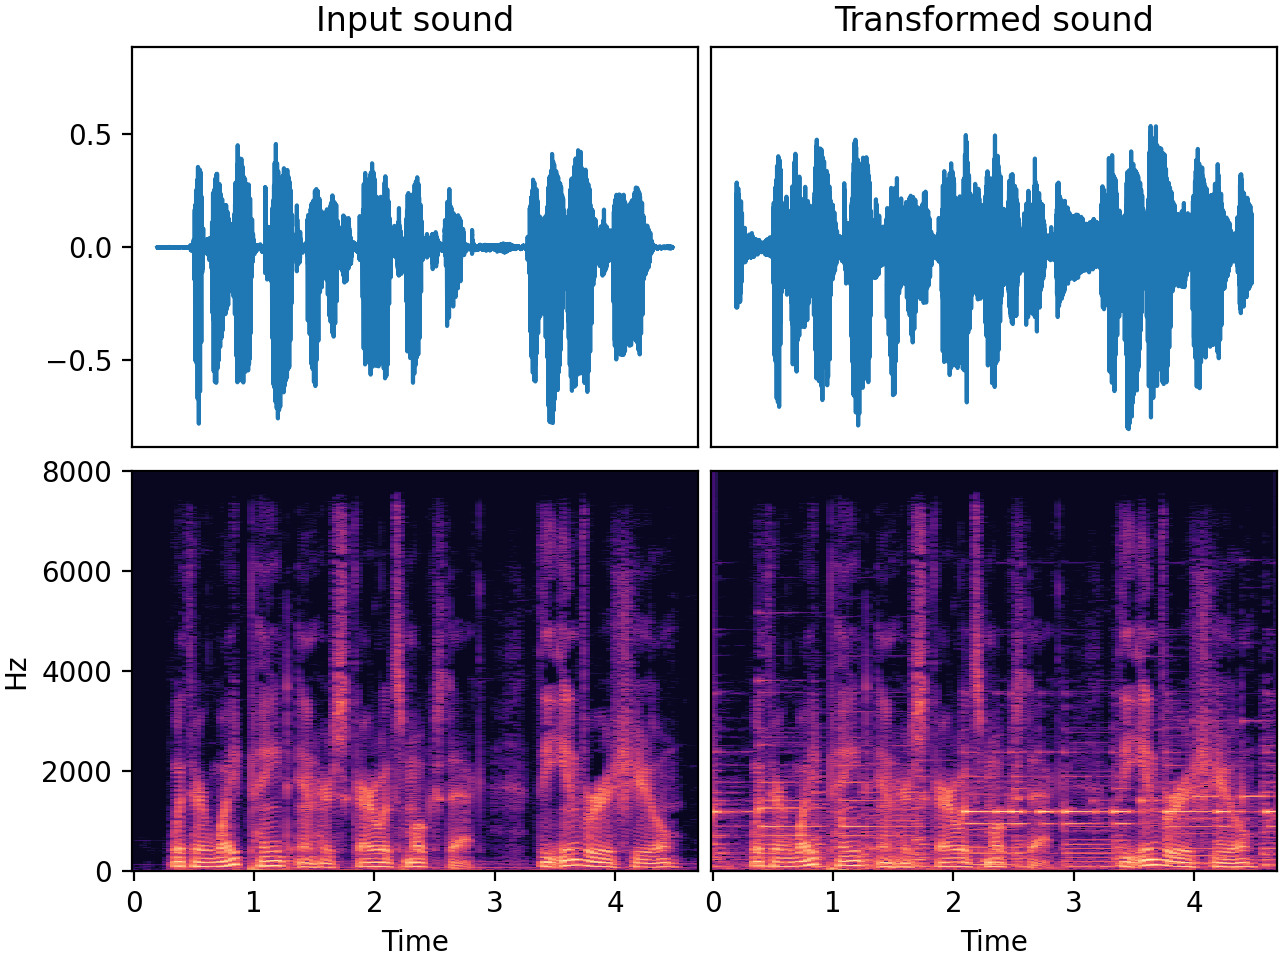
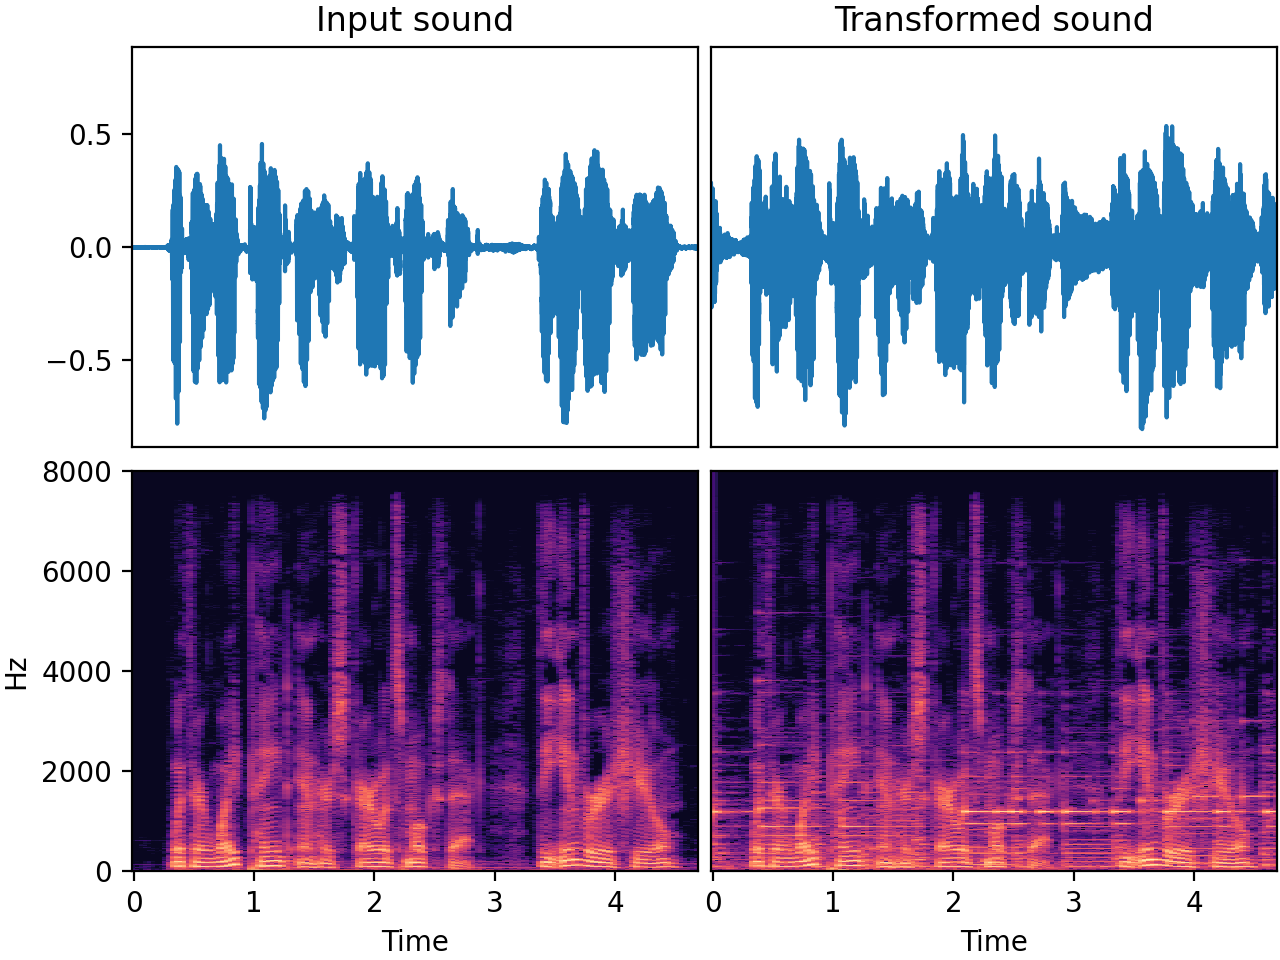
Align waveform with spectrogram

Changed region(s): [[0.4062, 0.125, 1.0, 0.4688], [0.125, 0.1562, 0.3125, 0.4375], [0.3125, 0.1875, 0.375, 0.3438]]

diff --git a/demo/generate_examples_for_doc.py b/demo/generate_examples_for_doc.py
@@ -27,12 +27,14 @@ def plot_waveforms_and_spectrograms(
     axs[0, 0].plot(sound)
     axs[0, 0].set_xticklabels([])
     axs[0, 0].set_xticks([])
+    axs[0, 0].set_xlim([0, sound.shape[-1]])
     axs[0, 0].set_ylim([-ylim, ylim])
     axs[0, 0].title.set_text("Input sound")
 
     axs[0, 1].plot(transformed_sound)
     axs[0, 1].set_xticklabels([])
     axs[0, 1].set_xticks([])
+    axs[0, 1].set_xlim([0, sound.shape[-1]])
     axs[0, 1].set_ylim([-ylim, ylim])
     axs[0, 1].set_yticks([])
     axs[0, 1].set_yticklabels([])
